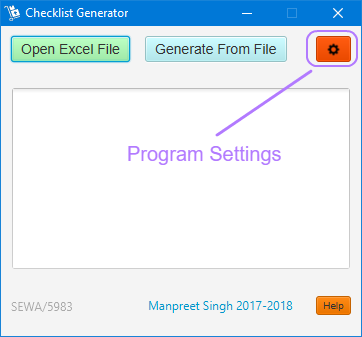
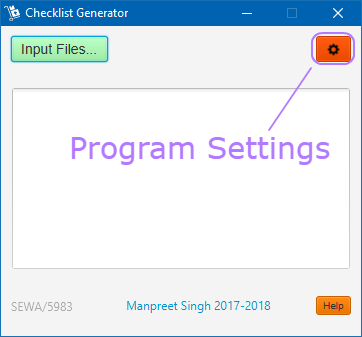
Build and web page Updates.

diff --git a/docs/index.html b/docs/index.html
@@ -48,7 +48,7 @@
                     Before we can begin using the Checklist program, we need to supply the program  a spreadsheet of zip codes to sort by.<br>
                     The list of all location and their zip codes can usually be obtained from your Hub Industrial Engineer.<br><br>
                     At SEWA, we have 6 different spreadsheets that contain zip codes and pallet location for 6 different destinations. For example, let say we have trailers going to locations four different destinations A, B, C, and D. We would then compile lists of the pallets that need to get loaded into each trailer(s). List A would only contain all the pallets that need to get activated and loaded onto the trailer(s) going to destination A. This would get repeated for destinations B, C, and D respectively.<br><br>
-                    Each of these lists, should be in the format shown below.<br>
+                    Each of these lists, should be in the format shown below.<br><br>
                     <img src="resources/routes_checklist_example.PNG">
                 </p>
                 <ul>
@@ -58,7 +58,7 @@
                 </ul>
                 <p>
                     In short, the zip codes on the spreadsheet should match the zip codes found on SSP and the UCR (Unshipped Container Report).<br>
-                    After creating the spreadsheet of all pallet locations. It's now time to save this spreadsheet. When saving this spreadsheet, you will need to adjust the save options. On the save file dialog window, change the "Save as type:" option to CSV (Comma delimited) (*.csv) as shown below.
+                    After creating the spreadsheet of all pallet locations. It's now time to save this spreadsheet. When saving this spreadsheet, you will need to adjust the save options. On the save file dialog window, change the "Save as type:" option to CSV (Comma delimited) (*.csv) as shown below.<br>
                     <img src="resources/checklist_save_option_example.png">
                 </p>
             </div>
@@ -116,6 +116,6 @@
         </div>
     </div>
     <footer>
-        &copy; 2018 Manpreet Singh
+        &copy; 2018-2019 Manpreet Singh
     </footer>
 </html>

diff --git a/src/net/manpreet_singh/checklist/OutputChecklist.kt b/src/net/manpreet_singh/checklist/OutputChecklist.kt
@@ -63,7 +63,7 @@ fun outputList(data: MutableCollection<String>, fileName: String, header: String
         var colNum = 0
         i.split(",").forEach { t ->
             val cell = row.createCell(colNum++)
-            cell.setCellValue(t)
+            cell.setCellValue(t.replace("\n",""))
             cell.setCellStyle(mainStyle)
         }
     }

diff --git a/src/net/manpreet_singh/gui/MainGUI.java b/src/net/manpreet_singh/gui/MainGUI.java
@@ -74,8 +74,8 @@ public class MainGUI extends Application{
 
     private FileChooser mFileChooser;
 
-    private Button      mOpenFile;
-    private Button      mGenerateFiles;
+//    private Button      mOpenFile;
+    private Button mInputFiles;
     private Button      mConfigButton;
     private Button      mHelpButton;
 
@@ -113,11 +113,12 @@ public class MainGUI extends Application{
         mFileChooser = new FileChooser();
         mFileChooser.setTitle("Open UCR File ...");
 
-        mOpenFile = new Button("Open Single File");
-        mOpenFile.setStyle("-fx-font: 14 arial; -fx-base: #AfffB9;");
+//        mOpenFile = new Button("Open Single File");
+//        mOpenFile.setStyle("-fx-font: 14 arial; -fx-base: #AfffB9;");
 
-        mGenerateFiles = new Button("Open Multiple Files");
-        mGenerateFiles.setStyle("-fx-font:14 arial; -fx-base: #C3FAFF;");
+        mInputFiles = new Button("Input Files...");
+//        mInputFiles.setStyle("-fx-font:14 arial; -fx-base: #C3FAFF;");
+        mInputFiles.setStyle("-fx-font: 14 arial; -fx-base: #AfffB9;");
 
         mConfigButton = new Button();
         mConfigButton.setStyle("-fx-font:14 arial; -fx-base: #FF5100;");
@@ -155,8 +156,8 @@ public class MainGUI extends Application{
         mGridPane.setPadding(new Insets(10,10,10,10));
 
         // Place objects onto the grid pane
-        mGridPane.add(mOpenFile, 0, 0);
-        mGridPane.add(mGenerateFiles, 1,0);
+//        mGridPane.add(mOpenFile, 0, 0);
+        mGridPane.add(mInputFiles, 0,0,1,1);
         mGridPane.add(mLogScrollPane, 0, 1,3,1);
         mGridPane.add(mName, 1, 2);
         mGridPane.add(mLocation, 0, 2);
@@ -208,26 +209,26 @@ public class MainGUI extends Application{
         Assign action to the Open File button, show a file choose dialog and input that file
         And of course it runs the actual program
          */
-        mOpenFile.setOnAction(event -> {
-            File file = mFileChooser.showOpenDialog(stage);
-            if (file != null) {
-                mLog.appendText("Opening file: " + file.getName() + "\n");
-                try {
-                    if (Utility.deleteFile("UCR.xls")) // Delete the previous saved file
-                        Files.copy(file.toPath(), Utility.makeFile("UCR.xls").toPath(), StandardCopyOption.REPLACE_EXISTING); // Copy the current input file for debugging etc.
-                    mConfigManagerGUI.parseUCR(file, this.mDesktop);
-                } catch (Exception e) {
-                    mLog.appendText(e.getLocalizedMessage() + "\n");
-                    e.printStackTrace();
-                    ErrorMessagesKt.exception(e);
-                }
-            }
-        });
+//        mOpenFile.setOnAction(event -> {
+//            File file = mFileChooser.showOpenDialog(stage);
+//            if (file != null) {
+//                mLog.appendText("Opening file: " + file.getName() + "\n");
+//                try {
+//                    if (Utility.deleteFile("UCR.xls")) // Delete the previous saved file
+//                        Files.copy(file.toPath(), Utility.makeFile("UCR.xls").toPath(), StandardCopyOption.REPLACE_EXISTING); // Copy the current input file for debugging etc.
+//                    mConfigManagerGUI.parseUCR(file, this.mDesktop);
+//                } catch (Exception e) {
+//                    mLog.appendText(e.getLocalizedMessage() + "\n");
+//                    e.printStackTrace();
+//                    ErrorMessagesKt.exception(e);
+//                }
+//            }
+//        });
 
         /*
          Currently a debug button, was previously used to recreate checklists from a saved UCR file
          */
-//        mGenerateFiles.setOnAction(event -> {
+//        mInputFiles.setOnAction(event -> {
 //            mLog.appendText("Generating checklists from saved UCR file\n");
 //            try {
 //                File file = new File("UCR.xls");
@@ -238,10 +239,10 @@ public class MainGUI extends Application{
 //            }
 //        });
 
-        mGenerateFiles.setOnAction( event -> {
-            mLog.appendText("Generating Checklists from Multiple Files.\n");
+        mInputFiles.setOnAction(event -> {
             try {
                 mConfigManagerGUI.parseUCRData(stage, this.mDesktop);
+                mLog.appendText("Generating Checklists from Multiple Files.\n");
             } catch (Exception e) {
                 //ErrorMessagesKt.exception(e);
             }
